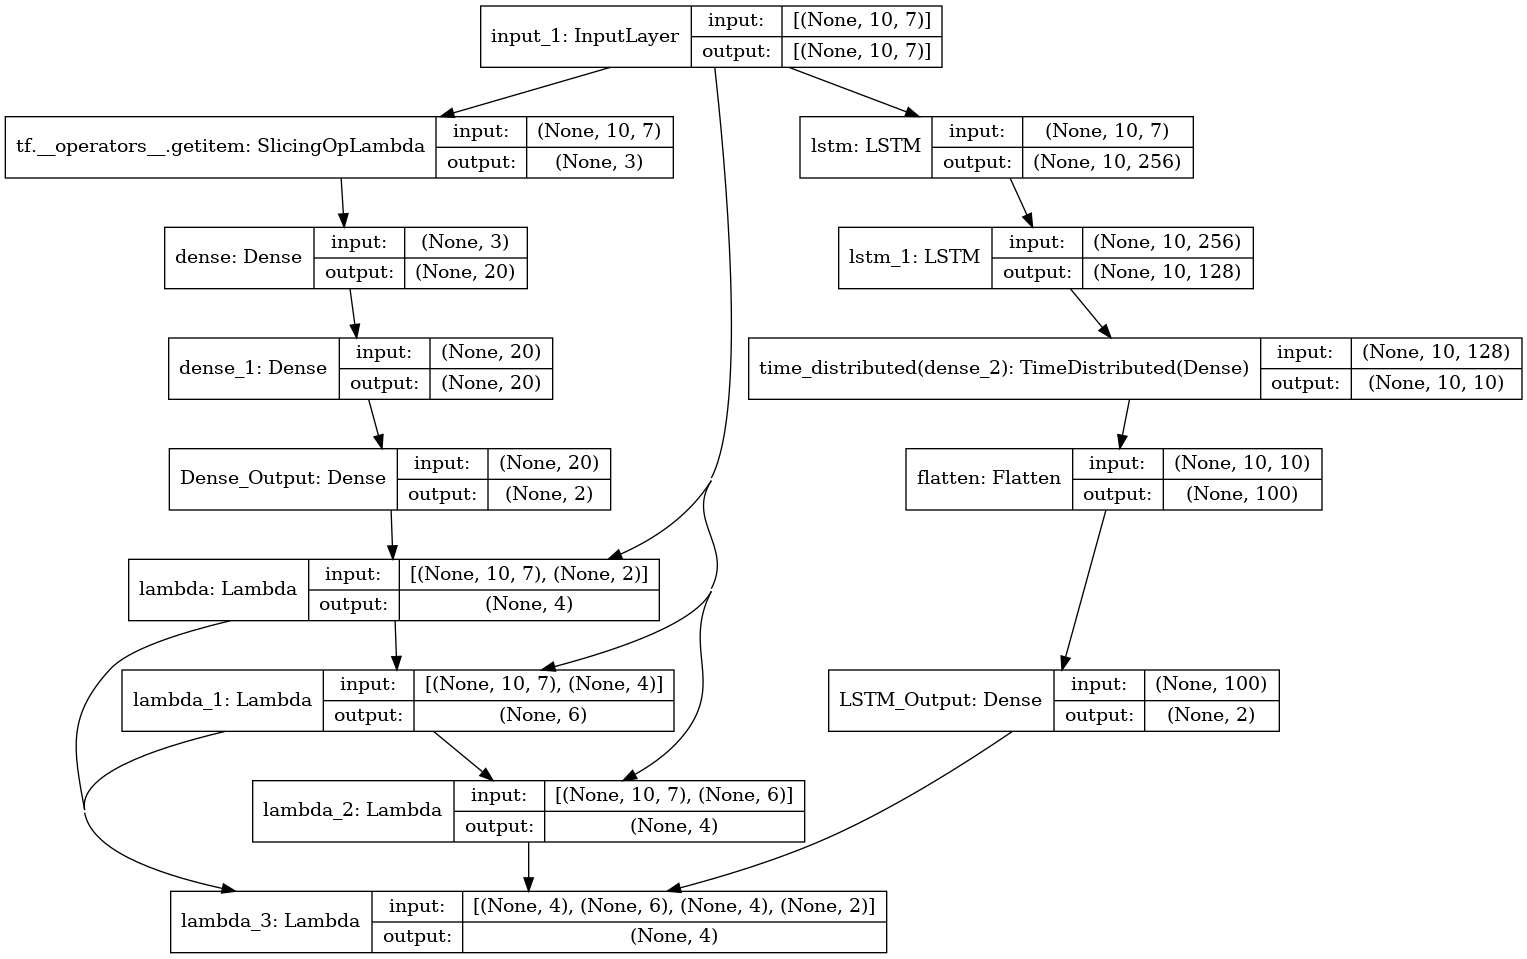
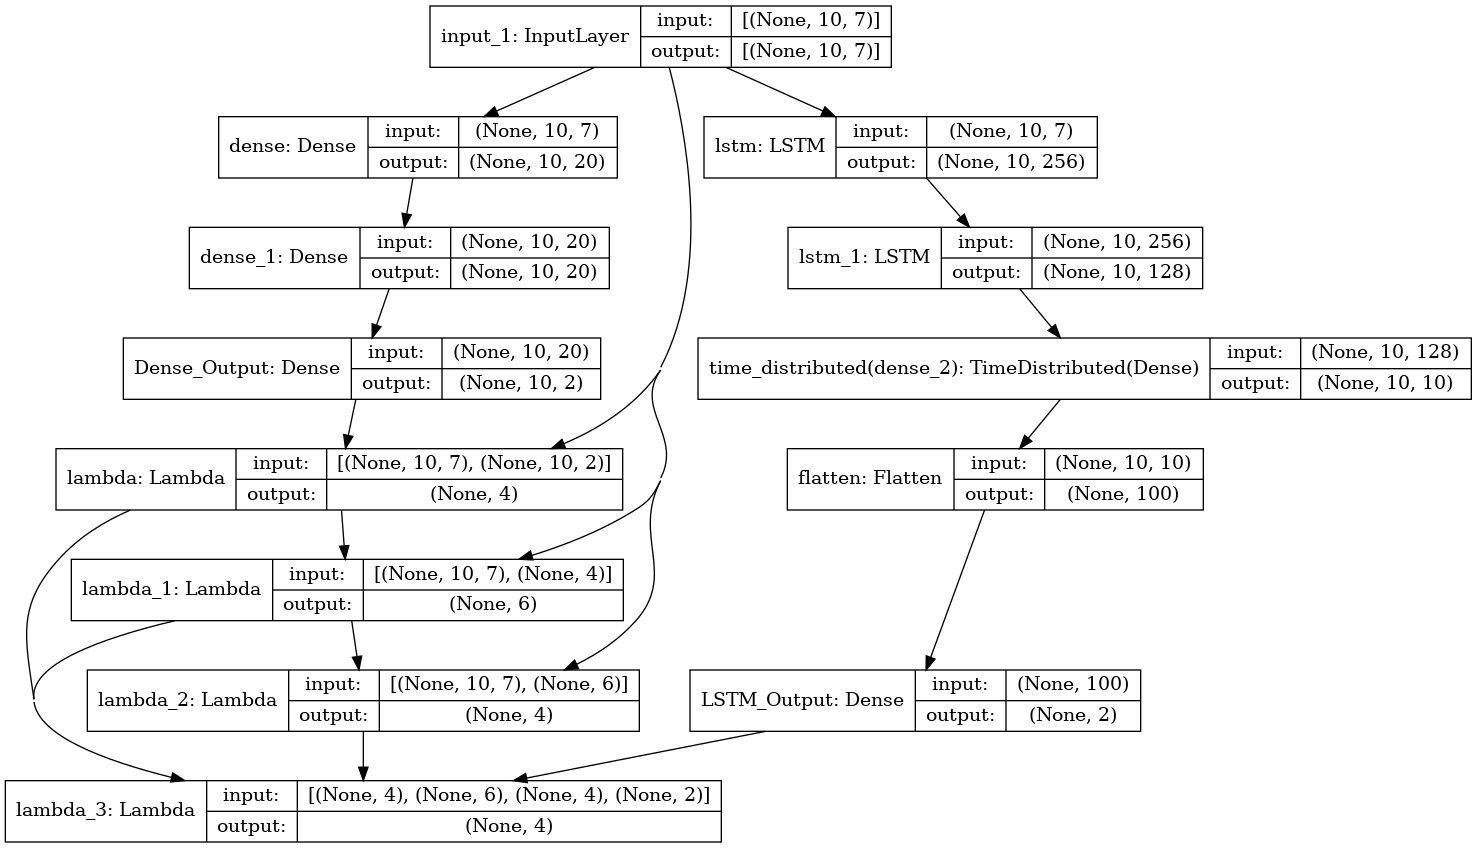
Saving progress before combining lambdas

Changed region(s): [[0.0, 0.0, 1.0, 1.0], [0.5295, 0.6745, 0.8409, 0.8585]]

diff --git a/lstm/lstm_v4.py b/lstm/lstm_v4.py
@@ -1,8 +1,6 @@
 # Python native libraries
 import os
 import itertools
-from pickletools import uint2
-from unicodedata import ucd_3_2_0
 import joblib
 from timeit import default_timer as timer
 from pathlib import Path
@@ -39,7 +37,7 @@ import data
 import scaling
 
 # %% Constants
-EXPERIMENT_N = 33
+EXPERIMENT_N = 35
 
 LOOKBACK = 10
 PREDICT_AHEAD = 1
@@ -50,7 +48,6 @@ BATCH_SIZE = 5024*8
 USE_2D = False
 
 INPUTS = ['X', 'Y', 'T', 'Vu', 'Vv', 'P', 'W.VF']
-# OUTPUTS = ['Vu', 'Vv']
 OUTPUTS = ['Vu', 'Vv']
 
 SCALER_PATH = os.path.join('output', f'scaler_{INPUTS}_2D={USE_2D}.pkl')
@@ -58,26 +55,6 @@ SCALER_CREATION_DIRS = ['/home/jperez/data/sled250', '/home/jperez/data/sled255'
 
 # No more scientific notation
 np.set_printoptions(suppress=True, linewidth=np.inf)
-
-# %% Build model from hyperparameters
-def build_model(hp):
-    pass
-
-# %% Build custom tuner
-# More documentation is available here: https://keras.io/guides/keras_tuner/custom_tuner/
-class MyTuner(kt.Tuner):
-    # You can set here any parameters from the fit() function if you want to use them
-    # In our case, we want access to the training set generator (x) so that's the only one I'm including
-    def run_trial(self, trial, x, *fit_args, **fit_kwargs):
-        # Get the tuner hyperparameters from keras-tuner's API
-        hp: kt.HyperParameters = trial.hyperparameters
-
-        # Set some trial hyperparameters
-        x.batch_size = hp.Int('batch_size', 32, 128, step=32, default=64)
-
-        # Let keras-tuner do the rest of the work
-        super(MyTuner, self).run_trial(trial, x=x, *fit_args, **fit_kwargs)
-
 
 if __name__ == '__main__':
     # %% Check if we forgot to update the experiment number
@@ -113,15 +90,15 @@ if __name__ == '__main__':
         psi_grad = K.gradients(psi, xyt)
         p_grad = K.gradients(p, xyt)
         if len(psi_grad) > 0 and psi_grad[0] != None:
-            # [Batch, Lookback, Input]
+            # [Batch, Lookback, Input (X, Y, T, ...)]
             v = -psi_grad[0][:, -1, 0]
             u = psi_grad[0][:, -1, 1]
 
             p_x = p_grad[0][:, -1, 0]
             p_y = p_grad[0][:, -1, 0]
-            return tf.stack([u, v, p_x, p_y], axis=1)
+            return K.stack([u, v, p_x, p_y], axis=1)
         z = K.zeros_like(xyt)[:, 0, 0]
-        return tf.stack([z, z, z, z], axis=1)
+        return K.stack([z, z, z, z], axis=1)
 
     def lambda_d2(tensor):
         xyt = tensor[0]
@@ -138,9 +115,9 @@ if __name__ == '__main__':
             v_y = v_grad[:, -1, 1]
             v_t = v_grad[:, -1, 2]
 
-            return tf.stack([u_x, u_y, u_t, v_x, v_y, v_t], axis=1)
+            return K.stack([u_x, u_y, u_t, v_x, v_y, v_t], axis=1)
         z = K.zeros_like(xyt)[:, 0, 0]
-        return tf.stack([z, z, z, z, z, z], axis=1)
+        return K.stack([z, z, z, z, z, z], axis=1)
 
     def lambda_d3(tensor):
         xyt = tensor[0]
@@ -156,9 +133,9 @@ if __name__ == '__main__':
 
             v_xx = v_x_grad[:, -1, 0]
             v_yy = v_y_grad[:, -1, 1]
-            return tf.stack([u_xx, u_yy, v_xx, v_yy], axis=1)
+            return K.stack([u_xx, u_yy, v_xx, v_yy], axis=1)
         z = K.zeros_like(xyt)[:, 0, 0]
-        return tf.stack([z, z, z, z], axis=1)
+        return K.stack([z, z, z, z], axis=1)
 
     def lambda_output(tensor):
         d1 = tensor[0]
@@ -181,8 +158,17 @@ if __name__ == '__main__':
         lstm_w = 0.8
         pinns_w = 1 - lstm_w
 
-        return tf.stack([lstm_w*lstm_u + pinns_w*u, lstm_w*lstm_v+pinns_w*v, f_u, f_v], axis=1)
+        return K.stack([lstm_w*lstm_u + pinns_w*u, lstm_w*lstm_v+pinns_w*v, f_u, f_v], axis=1)
     
+    class PINNSLayer(keras.layers.Layer):
+        def __init__(self):
+            super(PINNSLayer, self).__init__()
+            self.pinns1 = keras.layers.Lambda(lambda_d1)
+
+        def call(self, inputs):
+            input_layer = inputs[0]
+            dense_output = inputs[1]
+            lstm_output = inputs[2]
     # %% Model
     print('Preparing Model')
     input_layer = keras.layers.Input(shape=(LOOKBACK, len(INPUTS)))
@@ -190,7 +176,8 @@ if __name__ == '__main__':
     # Dense Branch
     # For input, take the current timestep and X,Y,T (recall layer[Batch_Size, Timestep, Input])
     # prev_dense = input_layer[:, -1, :3]
-    dense1 = keras.layers.Dense(20)(input_layer[:, -1, :3])
+    # dense1 = keras.layers.Dense(20)(input_layer[:, -1, :3])
+    dense1 = keras.layers.Dense(20)(input_layer)
     dense2 = keras.layers.Dense(20)(dense1)
     dense_output = keras.layers.Dense(2, name='Dense_Output')(dense2)
 
@@ -205,9 +192,13 @@ if __name__ == '__main__':
     pinns1 = keras.layers.Lambda(lambda_d1)([input_layer, dense_output])
     pinns2 = keras.layers.Lambda(lambda_d2)([input_layer, pinns1])
     pinns3 = keras.layers.Lambda(lambda_d3)([input_layer, pinns2])
-
-    # PINNs/Combination Lambda
     pinns_output = keras.layers.Lambda(lambda_output)([pinns1, pinns2, pinns3, lstm_output])
+
+    # pinns1 = LambD1()([input_layer, dense_output])
+    # pinns2 = LambD2()([input_layer, pinns1])
+    # pinns3 = LambD3()([input_layer, pinns2])
+    # pinns_output = LambOutput()([pinns1, pinns2, pinns3, lstm_output])
+
     lstm_model = keras.Model(input_layer, pinns_output)
     lstm_model.compile(optimizer=keras.optimizers.Adam(), loss=keras.losses.MeanSquaredError(reduction=losses.Reduction.AUTO))
     lstm_model.summary()
@@ -230,7 +221,7 @@ if __name__ == '__main__':
     print('Fitting model')
     history = lstm_model.fit(
         x=train_generator,
-        epochs=1,
+        epochs=30,
         validation_data=val_generator,
         verbose=1,
         callbacks=[early_stopping, checkpoint, tensorboard],
@@ -240,27 +231,27 @@ if __name__ == '__main__':
     duration = end_time-start_time
     print(f'Fitting took {duration:.3f}sec = {duration/60:.3f}min = {duration/60/60:.3f}h')
 
-    # #%% Model evaluation
-    # loss = history.history['loss']
-    # val_loss = history.history['val_loss']
+    #%% Model evaluation
+    loss = history.history['loss']
+    val_loss = history.history['val_loss']
 
-    # fig, ax = plt.subplots()
-    # ax.plot(loss, label = 'train')
-    # ax.plot(val_loss, label = 'val')
-    # ax.set_title('Loss (Mean Squared Logarithmic Error)')
-    # ax.legend(loc='upper right')
+    fig, ax = plt.subplots()
+    ax.plot(loss, label = 'train')
+    ax.plot(val_loss, label = 'val')
+    ax.set_title('Loss (Mean Squared Error)')
+    ax.legend(loc='upper right')
 
-    # #%% Individual MSEs
-    # from sklearn.metrics import mean_squared_error
-    # y_true = []
-    # y_pred = []
-    # with tqdm(total=len(val_generator), desc='Computing MSEs') as p_bar:
-    #     for batch_x, batch_y in val_generator:
-    #         pred = lstm_model.predict(batch_x)
-    #         y_pred.extend(pred)
-    #         y_true.extend(batch_y)
-    #         p_bar.update()
-    #         # p_bar.postfix = f'MSE: {mean_squared_error(y_true, y_pred, multioutput="raw_values")}'
+    #%% Individual MSEs
+    from sklearn.metrics import mean_squared_error
+    y_true = []
+    y_pred = []
+    with tqdm(total=len(val_generator), desc='Computing MSEs') as p_bar:
+        for batch_x, batch_y in val_generator:
+            pred = lstm_model.predict(batch_x)
+            y_pred.extend(pred)
+            y_true.extend(batch_y)
+            p_bar.update()
+            # p_bar.postfix = f'MSE: {mean_squared_error(y_true, y_pred, multioutput="raw_values")}'
 
     # print('Final', mean_squared_error(y_true, y_pred, multioutput='raw_values'))
             
